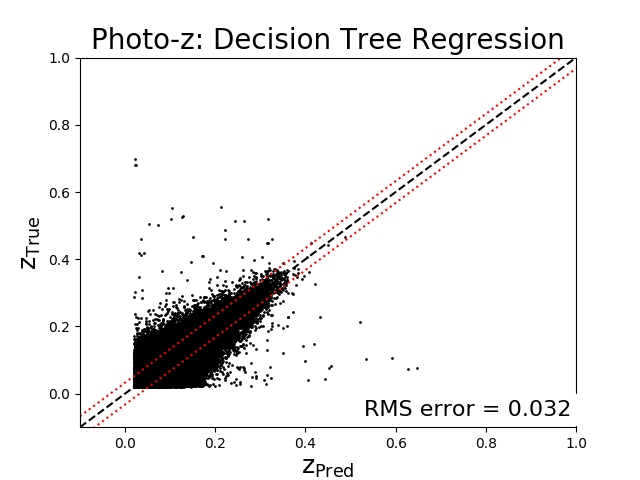
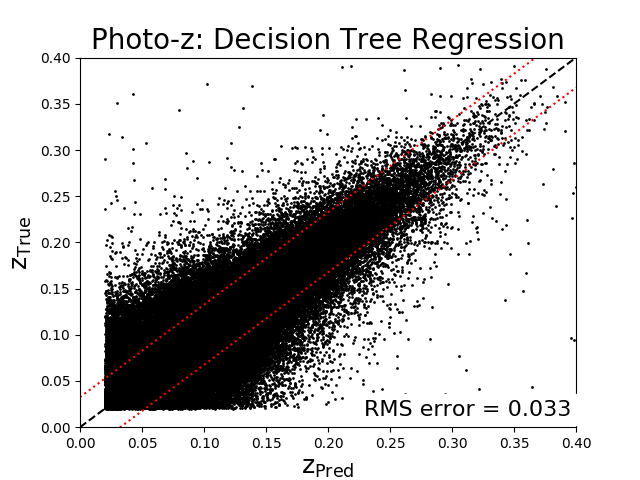
added plots

diff --git a/ann.py b/ann.py
@@ -6,7 +6,12 @@ from keras.layers import Dense, Dropout,BatchNormalization
 from sklearn.model_selection import train_test_split
 from matplotlib import pyplot as plt
 from keras.callbacks import Callback
+from keras import backend as K
+from sklearn import preprocessing
 plt.ion()
+
+def root_mean_squared_error(y_true, y_pred):
+        return K.sqrt(K.mean(K.square(y_pred - y_true), axis=-1))
 
 path ='data_redshift.csv'
 data =  pd.read_csv(path)
@@ -15,38 +20,52 @@ mag = np.vstack([data['modelMag_%s' % f] for f in 'ugriz']).T
 z = data['z']
 rate=0.2
 
+scaler = preprocessing.StandardScaler()
 #20 % for testing and 10 % for validation and 70 % for training 
 X_train, X_test, Y_train, Y_test = train_test_split(mag, z, test_size=0.2)
+# X_train = scaler.fit_transform(X_train)
+# mu = scaler.mean_
+# var = scaler.var_
 
 model = Sequential()
 model.add(Dense(5, input_dim=5, activation='relu'))
-model.add(Dense(64, activation='relu'))
-model.add(BatchNormalization())
-model.add(Dropout(rate))
-model.add(Dense(32,activation='relu'))
-model.add(BatchNormalization())
-model.add(Dropout(rate))
-model.add(Dense(16,activation='relu'))
-model.add(BatchNormalization())
-model.add(Dropout(rate))
+model.add(Dense(32, activation='relu'))
+model.add(Dense(16, activation='relu'))
+model.add(Dense(16, activation='relu'))
+model.add(Dense(8, activation='relu'))
+model.add(Dense(8, activation='relu'))
 model.add(Dense(4, activation='relu'))
-model.add(BatchNormalization())
-model.add(Dropout(rate))
-model.add(Dense(1,activation='linear'))
-model.compile(loss='mse', optimizer='adam')
+# model.add(BatchNormalization())
+# model.add(Dropout(rate))
+model.add(Dense(1,activation='sigmoid'))
+model.compile(loss=root_mean_squared_error, optimizer='adam')
 # history= model.fit(X_train,Y_train,nb_epoch=10,shuffle=True,validation_split=0.1)
 history = model.fit(X_train, Y_train, validation_split=0.1, epochs=3)
-X_fit_train = model.predict(X_train)
-rms_train = np.mean(np.sqrt((X_fit_train.squeeze() - Y_train) ** 2))
+# X_fit_train = model.predict(X_train)
+# rms_train = np.mean(np.sqrt((X_fit_train.squeeze() - Y_train) ** 2))
+
+# X_test= (X_test- mu)/var
+
 X_fit = model.predict(X_test)
-rms_test = np.mean(np.sqrt((X_fit.squeeze() - Y_test) ** 2))
+
+rms_test = np.sqrt(np.mean((X_fit.flatten() - Y_test)**2))
 
 
-# summarize history for loss
-plt.plot(history.history['loss'])
-plt.plot(history.history['val_loss'])
-plt.title('model loss')
-plt.ylabel('loss')
-plt.xlabel('epoch')
-plt.legend(['train', 'test'], loc='upper left')
+# # summarize history for loss
+# plt.plot(history.history['loss'])
+# plt.plot(history.history['val_loss'])
+# plt.title('model loss')
+# plt.ylabel('loss')
+# plt.xlabel('epoch')
+# plt.legend(['train', 'test'], loc='upper left')
+# plt.show()
+ax = plt.axes()
+
+plt.text(0.99, 0.02, "RMS error = %.2g" % rms_test,
+         ha='right', va='bottom', transform=ax.transAxes,
+         bbox=dict(ec='w', fc='w'), fontsize=16)
+
+plt.title('ANN Prediction',fontsize=20)
+plt.xlabel(r'$\mathrm{z_{Pred}}$', fontsize=18)
+plt.ylabel(r'$\mathrm{z_{True}}$', fontsize=18)
 plt.show()

diff --git a/randomforest.py b/randomforest.py
@@ -5,7 +5,7 @@ from sklearn.ensemble import RandomForestRegressor
 import pandas as pd 
 plt.ion()
 
-path ='/home/chander/Documents/study_material/data_science/project/photometric_redshift/data_redshift.csv'
+path ='data_redshift.csv'
 data =  pd.read_csv(path)
 
 mag = np.vstack([data['modelMag_%s' % f] for f in 'ugriz']).T
@@ -26,8 +26,8 @@ def compute_photoz_forest(depth):
 
         X_fit_train = clf.predict(X_train)
         X_fit = clf.predict(X_test)
-        rms_train[i] = np.mean(np.sqrt((X_fit_train - Y_train) ** 2))
-        rms_test[i] = np.mean(np.sqrt((X_fit - Y_test) ** 2))
+        rms_train[i] = np.sqrt(np.mean((X_fit_train - Y_train) ** 2))
+        rms_test[i] = np.sqrt(np.mean((X_fit - Y_test) ** 2))
 
         if rms_test[i] <= rms_test[i_best]:
             i_best = i
@@ -58,7 +58,13 @@ ax.set_ylabel('rms error')
 
 ax = fig.add_subplot(122)
 ax.scatter(Y_test, X_fit_best, s=1, lw=0, c='k')
-ax.plot([-0.1, 0.4], [-0.1, 0.4], ':k')
+ax.plot(axis_lim, axis_lim, '--k')
+ax.plot(axis_lim, axis_lim + rms, ':r')
+ax.plot(axis_lim, axis_lim - rms, ':r')
+ax.xlim(axis_lim)
+ax.ylim(axis_lim)
+
+ax.plot([0, 0.4], [0, 0.4], ':k')
 ax.text(0.03, 0.97, "depth = %i\nrms = %.3f" % (best_depth, rms_test[i_best]),
         ha='left', va='top', transform=ax.transAxes)
 

diff --git a/kn_loop.py b/kn_loop.py
@@ -5,7 +5,7 @@ from sklearn.neighbors import KNeighborsRegressor
 import pandas as pd 
 plt.ion()
 
-path ='/home/chander/Documents/study_material/data_science/project/photometric_redshift/data_redshift.csv'
+path ='data_redshift.csv'
 data =  pd.read_csv(path)
 
 mag = np.vstack([data['modelMag_%s' % f] for f in 'ugriz']).T
@@ -25,8 +25,8 @@ def compute_photoz_forest(depth):
 
         X_fit_train = clf.predict(X_train)
         X_fit = clf.predict(X_test)
-        rms_train[i] = np.mean(np.sqrt((X_fit_train - Y_train) ** 2))
-        rms_test[i] = np.mean(np.sqrt((X_fit - Y_test) ** 2))
+        rms_train[i] = np.sqrt(np.mean((X_fit_train - Y_train) ** 2))
+        rms_test[i] = np.sqrt(np.mean((X_fit - Y_test) ** 2))
 
         if rms_test[i] < rms_test[i_best]:
             i_best = i
@@ -57,7 +57,7 @@ ax.set_ylabel('rms error',fontsize=18)
 
 ax = fig.add_subplot(122)
 ax.scatter(Y_test, X_fit_best, s=1, lw=0, c='k')
-ax.plot([-0.1, 0.4], [-0.1, 0.4], ':k')
+ax.plot([0, 0.4], [0, 0.4], ':k')
 ax.text(0.03, 0.97, "depth = %i\nrms = %.3f" % (best_depth, rms_test[i_best]),
         ha='left', va='top', transform=ax.transAxes)
 ax.set_xlabel(r'$z_{\rm true}$',fontsize=18)

diff --git a/kn.py b/kn.py
@@ -4,7 +4,7 @@ from sklearn.model_selection import  train_test_split
 from sklearn.neighbors import KNeighborsRegressor
 import pandas as pd 
 
-path ='/home/chander/Documents/study_material/data_science/project/photometric_redshift/data_redshift.csv'
+path ='data_redshift.csv'
 data =  pd.read_csv(path)
 
 # mag = np.vstack([data['modelMag_%s' % f] for f in 'ugriz']).T
@@ -26,10 +26,10 @@ n_neighbors=1
 knn = KNeighborsRegressor(n_neighbors, weights='uniform') #try with weights= distance
 Y_pred = knn.fit(X_train, Y_train).predict(X_test)
 
-axis_lim = np.array([-0.1,1])
+axis_lim = np.array([0,0.4])
 
 rms = np.sqrt(np.mean((Y_test - Y_pred) ** 2))
-print "RMS error = %.2g" % rms
+# print "RMS error = %.2g" % rms
 
 ax = plt.axes()
 plt.scatter(Y_test, Y_pred, c='k', lw=0, s=4)

diff --git a/decision_tree.py b/decision_tree.py
@@ -4,7 +4,7 @@ from matplotlib import pyplot as plt
 from sklearn.model_selection import  train_test_split
 import pandas as pd 
 
-path ='/home/chander/Documents/study_material/data_science/project/photometric_redshift/data_redshift.csv'
+path ='data_redshift.csv'
 data =  pd.read_csv(path)
 
 # put colors in a matrix
@@ -23,10 +23,10 @@ clf = DecisionTreeRegressor()
 clf.fit(X_train, Y_train)
 Y_pred = clf.predict(X_test)
 
-axis_lim = np.array([-0.1,1])
+axis_lim = np.array([0,0.4])
 
 rms = np.sqrt(np.mean((Y_test - Y_pred) ** 2))
-print "RMS error = %.2g" % rms
+# print "RMS error = %.2g" % rms
 
 ax = plt.axes()
 plt.scatter(Y_test, Y_pred, c='k', lw=0, s=4)
